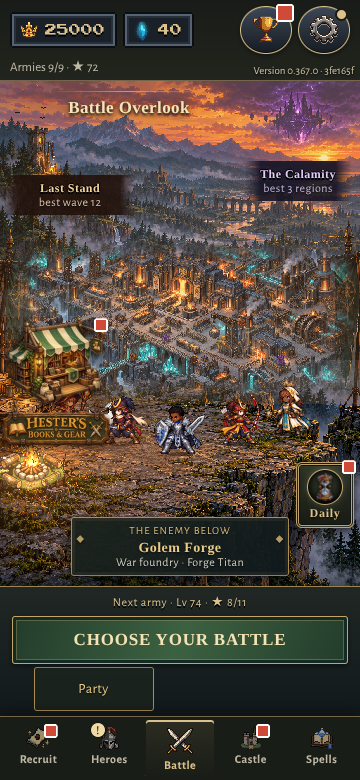
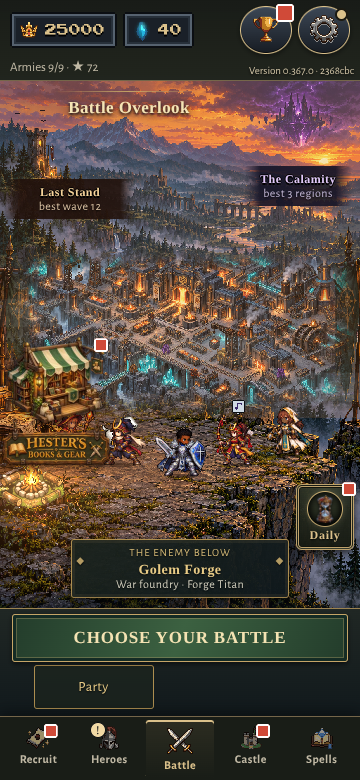
Home: no wave line over Choose your battle while a run is going
The bar's banner said "Wave 3/15 · ★ 8/11" whenever a run was saved, over the Battle button; Continue already gives the wave. Only the
one-time "Next army" line for a new army remains.

Claude-Session: https://claude.ai/code/session_01RRJtWka2ZpAugkgSbtj5L5

diff --git a/src/home.ts b/src/home.ts
@@ -715,7 +715,8 @@ export class Home {
     }
     // Keep the new-army announcement quiet on later launches; Continue still shows the wave.
     const progress = armyStars(m, next);
-    if (announceArmy(next.id, storage())) fr.append(el('div', 'hmBanner', info ? (army ? `Wave ${info.stage}/${army.waves.length} · ★ ${progress.got}/${progress.max}` : info.label) : `Next army · Lv ${next.level} · ★ ${progress.got}/${progress.max}`));
+    // (the owner's call: with a run going there is no wave line over the bar: Continue already says the wave; only a new army is named)
+    if (!info && announceArmy(next.id, storage())) fr.append(el('div', 'hmBanner', `Next army · Lv ${next.level} · ★ ${progress.got}/${progress.max}`));
     const go = el('div', 'hmGo');
     const has = this.hooks.hasRun();
     const party2 = el('button', 'hmLink hmSide', 'Party');

diff --git a/docs/notes/ui-consistency.md b/docs/notes/ui-consistency.md
@@ -120,3 +120,8 @@ shots are a script's, in headless Chromium, not a real phone.
 Shots: `camp-before-home-battle-dealer-<w>.png` and `camp-after-home-battle-dealer-<w>.png` (a save with the Dealer in camp), and
 `camp-after-home-battle-<w>.png`, at 393, 360 and 412. Checks: `npm run typecheck` clean, `npm test` 2527 pass, 0 fail, 0 skipped,
 `npm run web` built. Cinzel and the violet panels are untouched, still waiting on the owner.
+- **"There is something behind the Choose your battle button. I think it's the current wave label."** It was the bar's banner line,
+  "Wave 3/15 · ★ 8/11", drawn over the button whenever a run was saved (opening home from the deploy board or a fight). Nothing from the
+  fight's HUD shows through: the probe found no layer of the battle over the button. The Continue button already says the wave, so the
+  banner is now left out while a run is going; the one-time "Next army" line for a new army is kept. (`home.ts`) Shots:
+  `camp-before-home-mid-run-<w>.png` and `camp-after-home-mid-run-<w>.png` at 393, 360 and 412; `npm test` 2527 pass, 0 fail.
